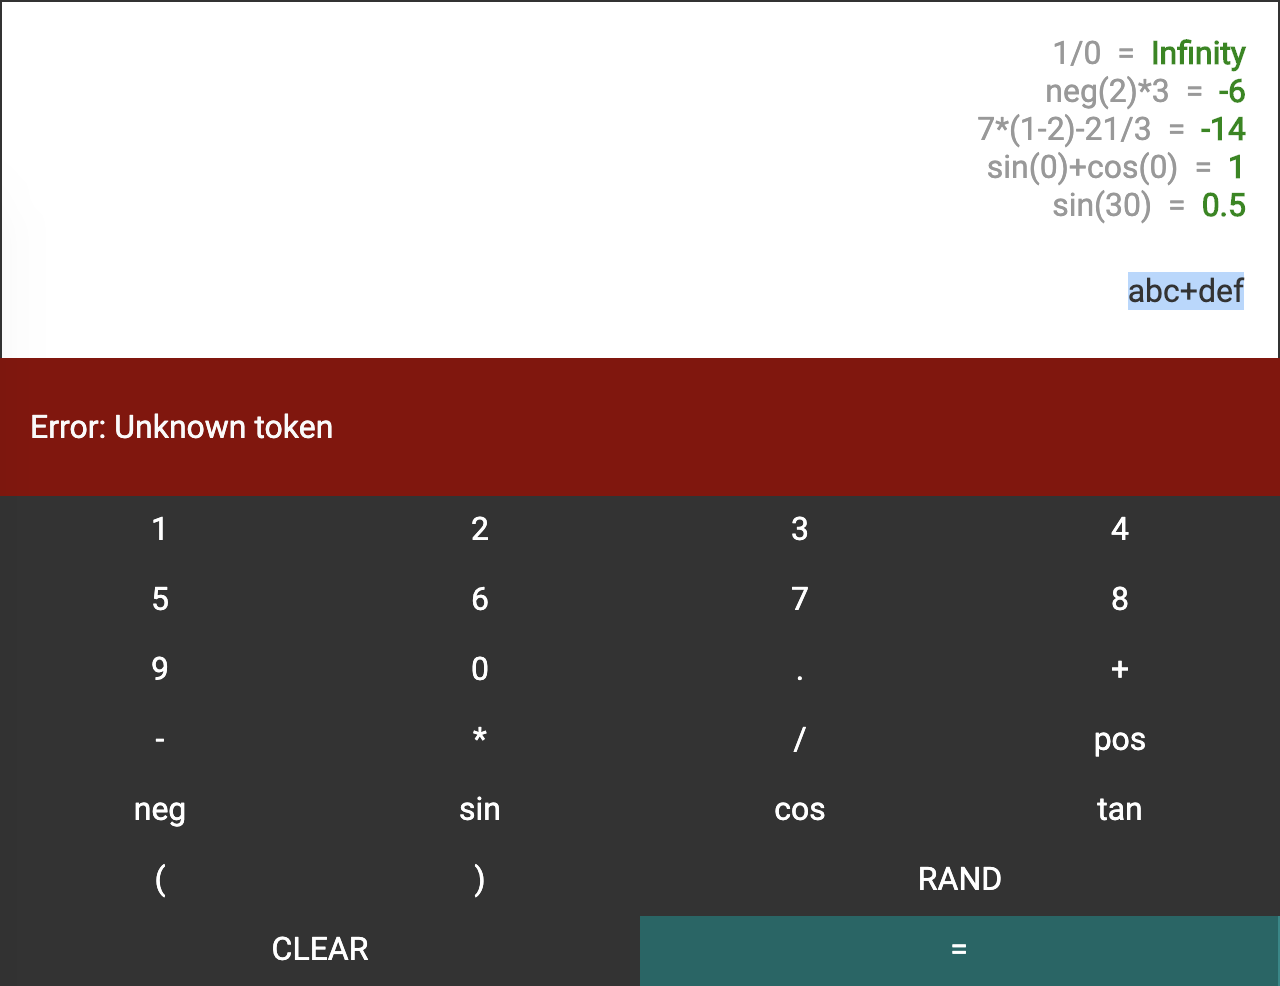
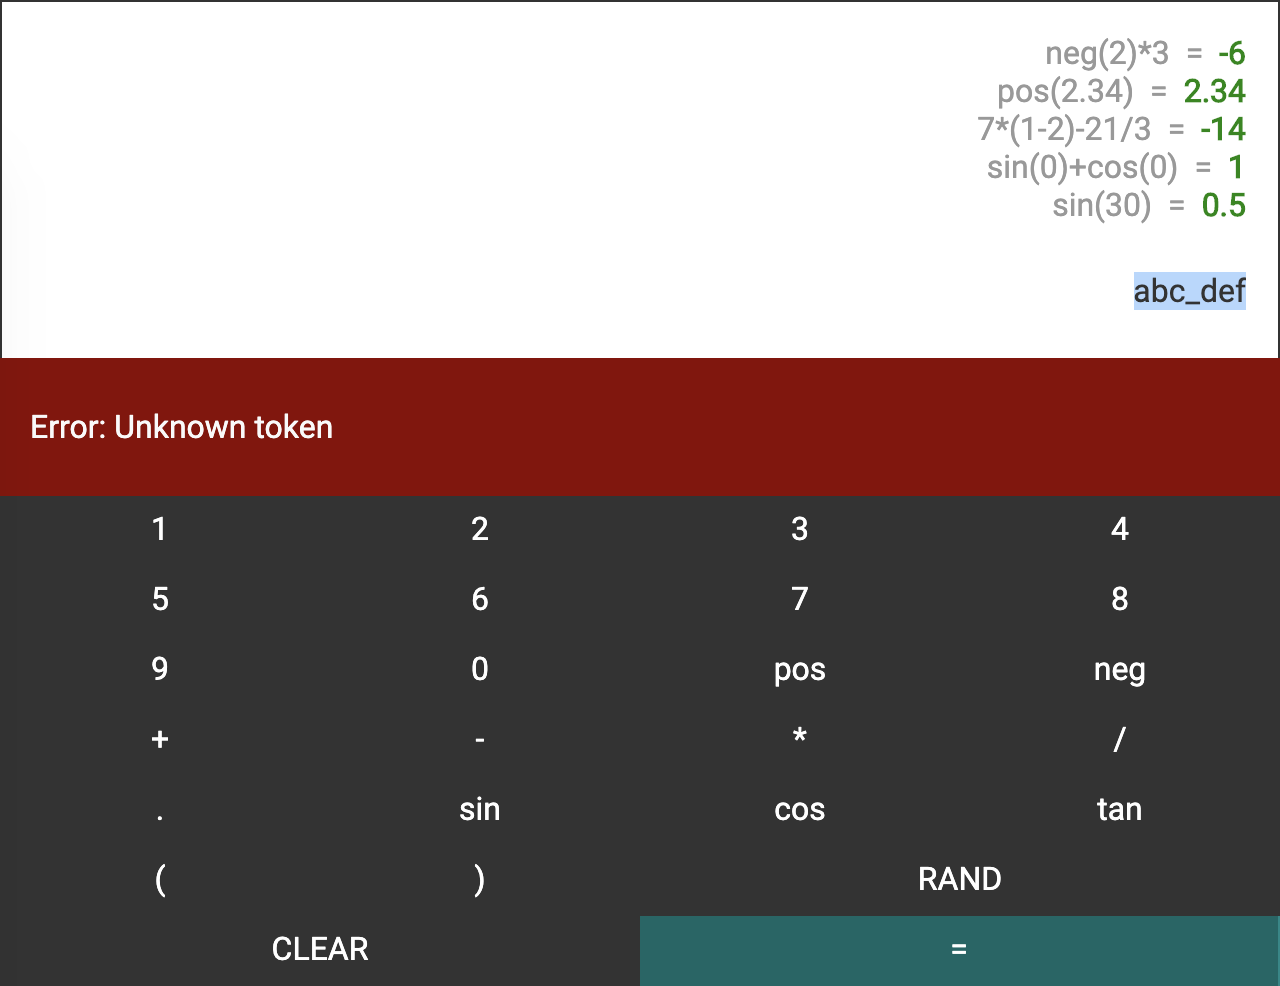
Updated docs and key order

diff --git a/projects/calculator-app/src/app/calculator/components/command-panel/command-panel.component.ts b/projects/calculator-app/src/app/calculator/components/command-panel/command-panel.component.ts
@@ -10,9 +10,11 @@ export class CommandPanelComponent {
   @Output() commandClick = new EventEmitter<string>();
 
   readonly commands: string[] = [
-    '1', '2', '3', '4', '5', '6', '7', '8', '9', '0',
-    '.', '+', '-', '*', '/',
-    'pos', 'neg', 'sin', 'cos', 'tan',
+    '1', '2', '3', '4',
+    '5', '6', '7', '8',
+    '9', '0', 'pos', 'neg',
+    '+', '-', '*', '/',
+    '.', 'sin', 'cos', 'tan',
     '(', ')'
   ];
 

diff --git a/ASSUMPTIONS.md b/ASSUMPTIONS.md
@@ -21,4 +21,13 @@ sin(x) // returns sin(30 * PI / 180 deg), which is 0.5
 
 ```
 
+- Use dot for floating point (not comma)
+```js
+// DON'T
+10,987
+
+// DO
+10.987
+```
+
 - Spaces in expression are not permitted

diff --git a/README.md b/README.md
@@ -17,9 +17,8 @@ Features:
 
 Examples:
 ```js
-1/0 = Infinity
 neg(2)*3 = -6
-pos(2) = 2
+pos(2.34) = 2.34
 7*(1-2)-21/3 = -14
 sin(0)+cos(0) = 1
 sin(30) = 0.5
